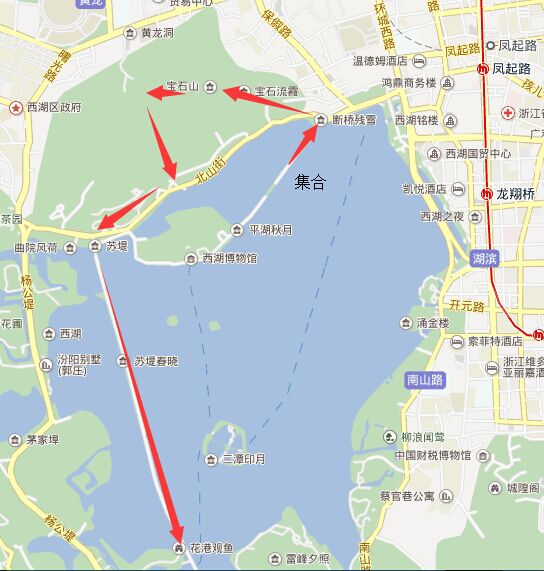
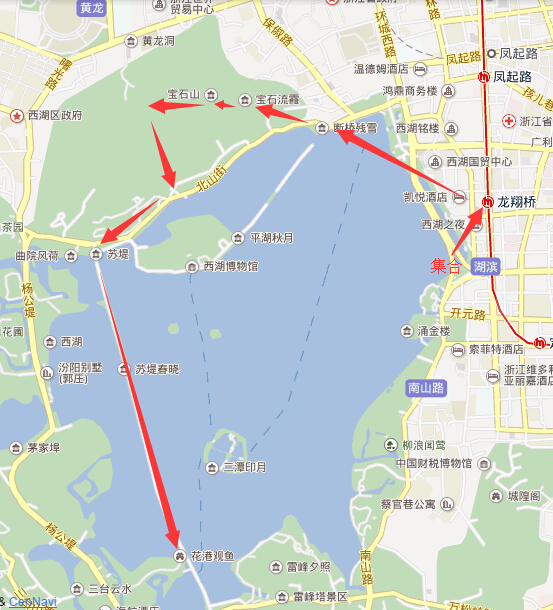
activity xihu

diff --git a/xihu.html b/xihu.html
@@ -1038,10 +1038,10 @@ body .markdown-body
 <pre><code>自带午餐和水
 </code></pre>
 <h1 id="_6"><a name="user-content-_6" href="file:///C:/users/admini~1/appdata/local/temp/21.html#_6" class="headeranchor-link" aria-hidden="true"><span class="headeranchor"></span></a>集合时间地点：</h1>
-<pre><code>龙翔桥地铁B出口，沿西湖向北300米断桥,8:30集合出发,请不要迟到,尊重大家的宝贵时间。
+<pre><code>龙翔桥地铁B出口, 8:30集合准备出发, 请不要迟到, 尊重大家的宝贵时间。
 </code></pre>
 <ul>
-<li><a href="http://hangzhou.8684.cn/">公交路线查询</a></li>
+<li><a href="http://hangzhou.8684.cn/" target="_blank">公交路线查询</a></li>
 </ul>
 <h1 id="_7"><a name="user-content-_7" href="file:///C:/users/admini~1/appdata/local/temp/21.html#_7" class="headeranchor-link" aria-hidden="true"><span class="headeranchor"></span></a>报名要求：</h1>
 <pre><code>请勿迟到, 女士勿穿高跟
